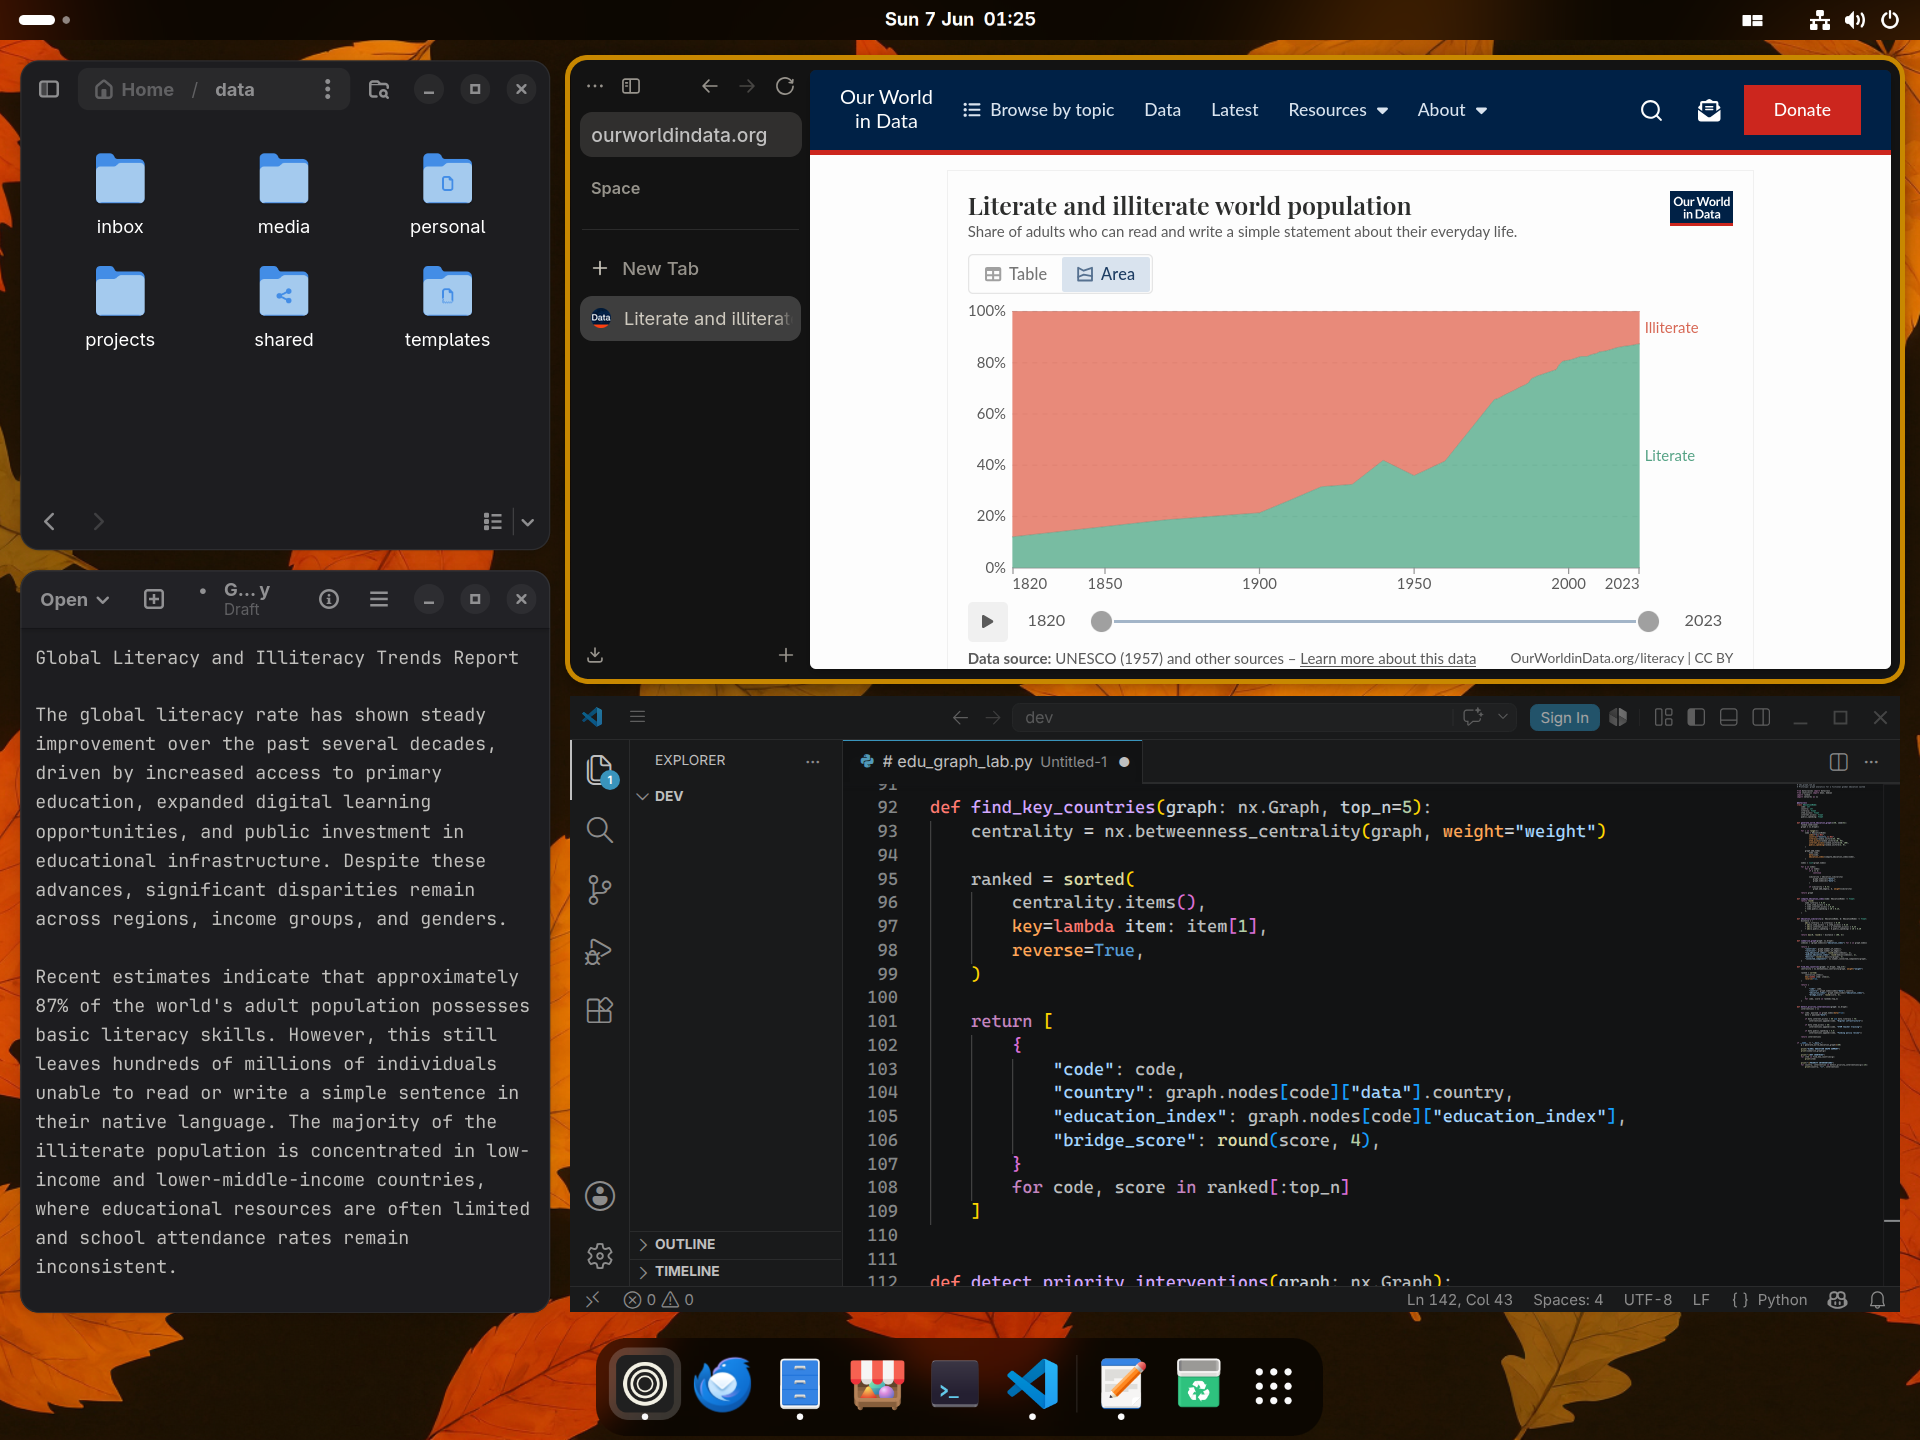
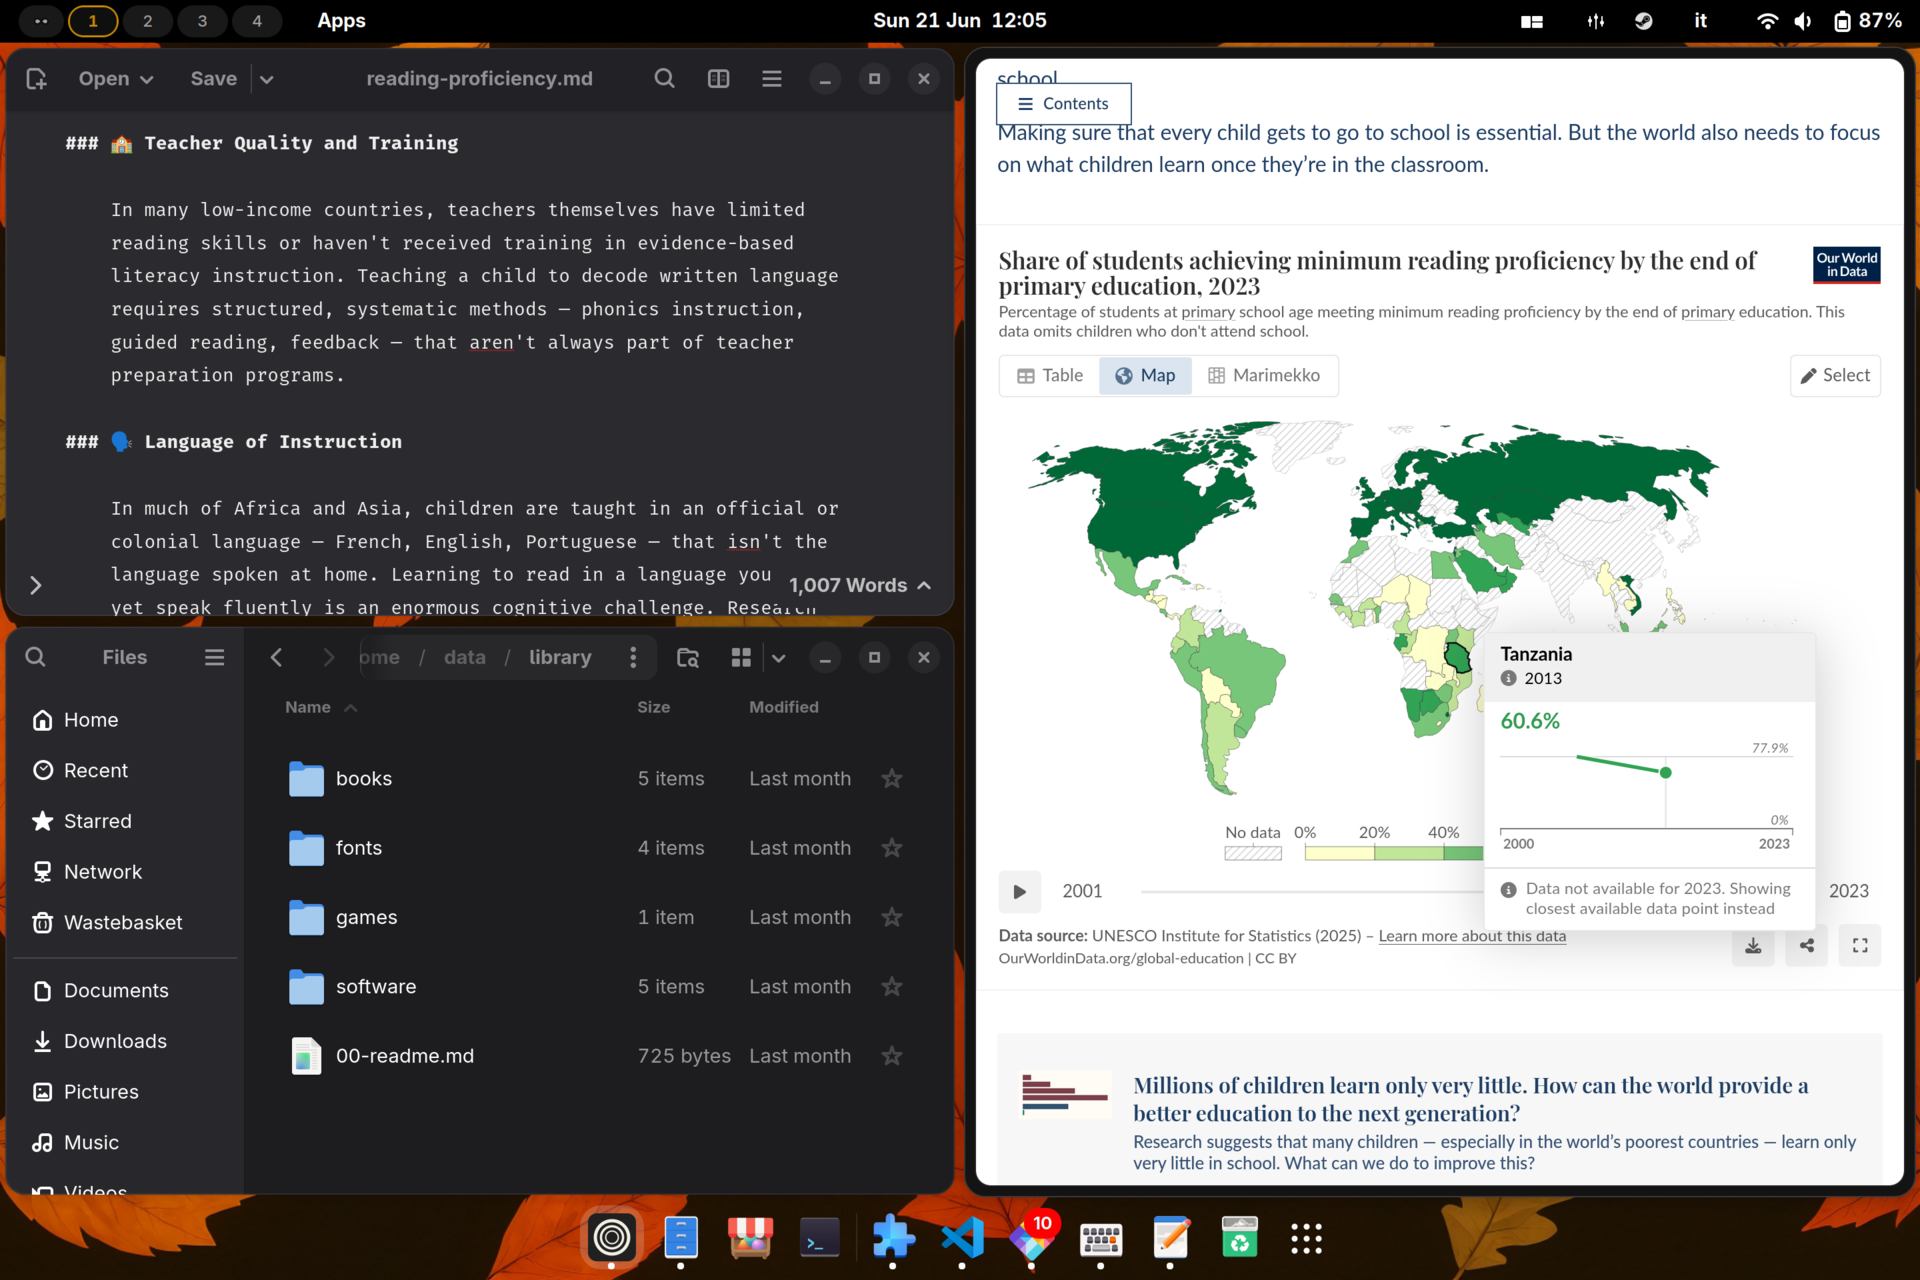
docs(readme): refresh screenshots + document margine-sunshine (#217)
- Sync tiling-windows + activities-search screenshots to the current
  versions on the site (the README copies were stale from Jun 7), and
  add gaming-heroes + scheduler-overview to the gallery.
- Add a 'Game streaming (Sunshine)' subsection for the new
  ujust margine-sunshine recipe.
(gaming-native was already documented in Option C.)

diff --git a/README.md b/README.md
@@ -95,6 +95,10 @@ operations.
 <img src="docs/screenshots/activities-search.png" alt="GNOME Activities with search open showing Margine extensions and dock" width="48%">
 &nbsp;
 <img src="docs/screenshots/lock-screen.png" alt="Lock screen with autumn-leaves wallpaper" width="48%">
+&nbsp;
+<img src="docs/screenshots/gaming-heroes.png" alt="Heroes III running on Margine through Proton" width="48%">
+&nbsp;
+<img src="docs/screenshots/scheduler-overview.png" alt="Margine CPU Scheduler picker with the sched_ext options" width="48%">
 
 </div>
 
@@ -219,6 +223,18 @@ ujust margine-gaming-remove        # for the Flatpak variant
 ujust margine-gaming-native-remove # for the native variant
 systemctl reboot
 ```
+
+**Game streaming (Sunshine, experimental):**
+
+Stream games from this machine to a [Moonlight](https://moonlight-stream.org/) client (laptop, tablet, TV, another PC). The atomic equivalent of Bazzite's `setup-sunshine`:
+
+```sh
+ujust margine-sunshine          # Sunshine (Moonlight host) as a Flatpak,
+                                # with uinput + firewall ports wired up.
+ujust margine-sunshine-remove   # roll it back
+```
+
+Then open `https://localhost:47990` to set credentials and pair. Experimental: not yet validated end to end.
 
 The result of either is a layered (not ostree-canonical) deployment —
 `rpm-ostree status` will show `LayeredPackages: gamescope vkBasalt`